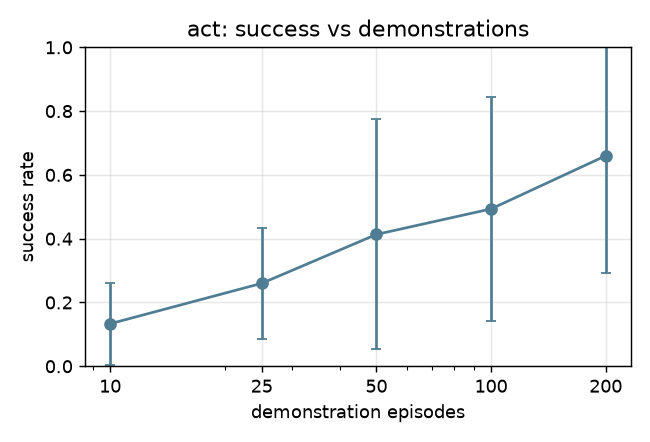
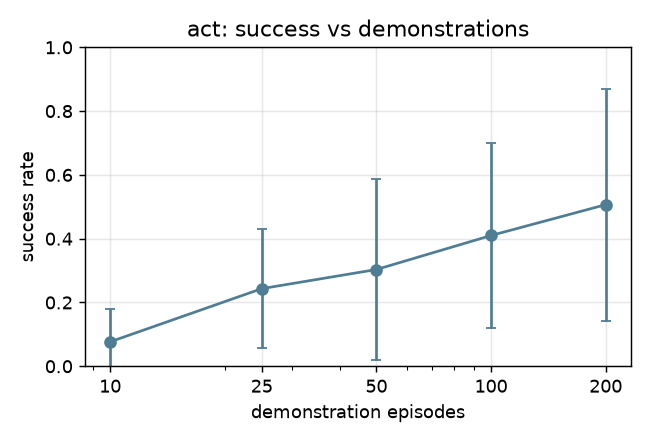
ACT scaling curve at six training seeds (0.51 +- 0.36 at 200, two groups); eval-pipeline recheck numbers

diff --git a/README.md b/README.md
@@ -13,8 +13,8 @@ none is typed by hand. Headline: from the same 200 scripted demonstrations
 an ACT-style chunked policy lifts the cube 0.77 of the time against 0.05
 for single-step cloning (expert 0.93), and in the scaling curve more
 demonstrations do not help single-step cloning while ACT is still climbing
-at 200. One training seed per table except the scaling curve (three), and
-the scaling curve shows that the training seed matters a lot.
+at 200. One training seed per table except the scaling curve (three, six
+for ACT), and the scaling curve shows that the training seed matters a lot.
 
 **Walkthrough:** https://aungkaung1928.github.io/projects/so-arm100.html — the bench and the three policy projects built on it, explained end to end.
 
@@ -83,39 +83,41 @@ on the expert's own states, and the held-out table below is what counts.
 ## The experiments
 
 **Scaling curve** (`scaling.py`): for sizes 10, 25, 50, 100, 200 episodes
-and 3 seeds each, train on the first `size` episodes for 20 epochs and
+and 3 training seeds each (6 for `act`), train on the first `size` episodes for 20 epochs and
 evaluate 50 episodes on one evaluation seed. That is lighter than the bench
 protocol (100 × 5) and the 30 epochs of the training table above, to keep 15
 runs per model affordable on CPU. Same first episodes for every training
 seed, so seeds differ only in initialisation and shuffling; a cell is mean ±
-sd over the 3 training seeds, so its spread is training variance, not
+sd over the training seeds, so its spread is training variance, not
 evaluation noise (at 50 episodes one success is 0.02).
 
 `nice -n 10 python scaling.py --root data/lift_red --repo-id local/so_arm100_lift_red --task lift:red --model image --sizes 10 25 50 100 200 --seeds 3` → `runs/scaling_image.json`, `out/scaling_image.png`
 
 | episodes | `state` | `image` | `act` |
 |---|---|---|---|
-| 10 | 0.01 ± 0.01 | 0.01 ± 0.01 | 0.13 ± 0.13 |
-| 25 | 0.01 ± 0.01 | 0.03 ± 0.01 | 0.26 ± 0.17 |
-| 50 | 0.00 ± 0.00 | 0.02 ± 0.03 | 0.41 ± 0.36 |
-| 100 | 0.02 ± 0.00 | 0.04 ± 0.02 | 0.49 ± 0.35 |
-| 200 | 0.03 ± 0.01 | 0.05 ± 0.06 | 0.66 ± 0.37 |
+| 10 | 0.01 ± 0.01 | 0.01 ± 0.01 | 0.08 ± 0.10 |
+| 25 | 0.01 ± 0.01 | 0.03 ± 0.01 | 0.24 ± 0.19 |
+| 50 | 0.00 ± 0.00 | 0.02 ± 0.03 | 0.30 ± 0.28 |
+| 100 | 0.02 ± 0.00 | 0.04 ± 0.02 | 0.41 ± 0.29 |
+| 200 | 0.03 ± 0.01 | 0.05 ± 0.06 | 0.51 ± 0.36 |
 
 ![success against demonstrations for the three models](out/scaling_all.png)
 
 Measured 2026-09-25 (`state`) and 2026-09-30 (`image`, `act`), 3 training
-seeds × 50 episodes per cell; the faint points in the figure are the single
-seeds. 90 and 92 min wall for the 15 image and 15 ACT runs, most of it
+seeds (`state`, `image`) and 6 (`act`) × 50 episodes per cell; the faint
+points in the figure are the single seeds. 90 min wall for the 15 image
+runs and 196 min for the 30 ACT runs (seeds 3–5 added the same day with
+`--seeds 6`, which resumes and skips the finished rows), most of it
 rendering during evaluation (`out/scaling_all.png` from `scripts/plot_scaling.py`).
-Per seed (0 / 1 / 2):
+Per seed:
 
-| episodes | `image` | `act` |
+| episodes | `image` (0 / 1 / 2) | `act` (0 / 1 / 2 / 3 / 4 / 5) |
 |---|---|---|
-| 10 | 0.00 / 0.00 / 0.02 | 0.28 / 0.08 / 0.04 |
-| 25 | 0.02 / 0.04 / 0.02 | 0.34 / 0.06 / 0.38 |
-| 50 | 0.00 / 0.00 / 0.06 | 0.76 / 0.04 / 0.44 |
-| 100 | 0.04 / 0.06 / 0.02 | 0.82 / 0.12 / 0.54 |
-| 200 | 0.02 / 0.00 / 0.12 | 0.92 / 0.24 / 0.82 |
+| 10 | 0.00 / 0.00 / 0.02 | 0.28 / 0.08 / 0.04 / 0.00 / 0.04 / 0.02 |
+| 25 | 0.02 / 0.04 / 0.02 | 0.34 / 0.06 / 0.38 / 0.08 / 0.50 / 0.10 |
+| 50 | 0.00 / 0.00 / 0.06 | 0.76 / 0.04 / 0.44 / 0.12 / 0.40 / 0.06 |
+| 100 | 0.04 / 0.06 / 0.02 | 0.82 / 0.12 / 0.54 / 0.22 / 0.62 / 0.14 |
+| 200 | 0.02 / 0.00 / 0.12 | 0.92 / 0.24 / 0.82 / 0.12 / 0.76 / 0.18 |
 
 What the curve says:
 
@@ -126,26 +128,35 @@ What the curve says:
   compounding error measured below is not a data-quantity problem at this
   scale. The 200-episode cell (0.05 ± 0.06) agrees with the 100 × 5
   evaluation of the 30-epoch model (0.05 ± 0.02).
-- **ACT climbs and has not levelled off at 200.** The mean rises 0.13,
-  0.26, 0.41, 0.49, 0.66, and seeds 0 and 2 improve at every step.
-  Where it stops is past the largest size measured.
+- **ACT's mean climbs and has not levelled off at 200.** The mean rises
+  0.08, 0.24, 0.30, 0.41, 0.51. Seeds 0 and 2 improve at every step; seed
+  3 drops from 0.22 to 0.12 between 100 and 200. Where the mean stops is
+  past the largest size measured.
 - **The training seed is the biggest term, bigger than the dataset size.**
-  At 200 episodes ACT's seeds score 0.92, 0.82 and 0.24. At 50 episodes one
-  success is 0.02 and the binomial standard error of a 0.5 rate is 0.07, so
-  a spread of 0.37 is training variance, not evaluation noise. Seed 1 is
-  worst at every size because a seed fixes the initialisation and the
-  shuffling, and the sizes share them. So the three curves are three
-  initialisations, not fifteen independent draws. The ranking survives it:
-  at 100 and 200 episodes ACT's worst seed is above the image policy's best
-  (0.12 vs 0.06, 0.24 vs 0.12). At 50 it is not (0.04 vs 0.06).
-- **Validation L1 does not pick the good seed.** At 50 episodes the seeds'
-  L1 is 0.142, 0.190 and 0.235 and their success 0.76, 0.04 and 0.44. The
-  middle loss has the worst policy. That is one more reason the final
-  epoch is reported rather than the best one on validation.
+  At 200 episodes ACT's six seeds split into two groups: 0.92, 0.82, 0.76
+  and 0.24, 0.18, 0.12, with nothing between 0.24 and 0.76. The mean of
+  0.51 describes neither group. At 50 episodes one success is 0.02 and the
+  binomial standard error of a 0.5 rate is 0.07, so an sd of 0.28 there is
+  training variance, not evaluation noise. A seed fixes the
+  initialisation and the shuffling, and the sizes share them, so the six
+  curves are six initialisations, not thirty independent draws. Seeds 1,
+  3 and 5 are in the low group at 50, 100 and 200 episodes. The ranking
+  against single-step cloning only partly survives: at 100 episodes ACT's
+  worst seed is above the image policy's best (0.12 vs 0.06); at 200 they
+  tie (0.12 vs 0.12) and at 50 it is below (0.04 vs 0.06). The mean gap
+  is large at every size from 25 up.
+- **Validation L1 does not reliably pick the good seed.** At 50 episodes
+  seeds 0, 1 and 2 have L1 0.142, 0.190 and 0.235 and success 0.76, 0.04
+  and 0.44: the middle loss has the worst policy. At 200 episodes the six
+  seeds' L1 (0.126 to 0.168) does order the two groups correctly, every
+  high-group seed below every low-group one. So the loss carries some
+  signal at the largest size and none at 50; six seeds are too few to say
+  where that changes. The final epoch is still reported, not the best one
+  on validation.
 - **What it means for the other tables.** The ACT results below (0.77 on
   nominal, the held-out table) are one training seed at 30 epochs, and
-  every other policy here is one training seed too. At 20 epochs this curve puts three seeds of
-  the same recipe at 0.24 to 0.92, so the ± over
+  every other policy here is one training seed too. At 20 epochs this curve puts six seeds of
+  the same recipe at 0.12 to 0.92, so the ± over
   evaluation seeds understates the real uncertainty by a wide margin. The
   BC-versus-ACT gap is large enough to survive that; the smaller
   differences in the held-out table (laggy −0.12, weak −0.06) may not.
@@ -193,11 +204,14 @@ Mean ± std over the 5 seeds, 100 episodes each. What the table says:
 - **Chunking is the whole difference.** Same demonstrations, same encoder
   family, same loss: the single-step `ImagePolicy` lifts 0.05 on nominal,
   `ACTLite` 0.77. Replaying a recorded episode through the eval env
-  reproduces the state to 7e-7 and the policy's output on the expert's own
-  trajectory is within 0.005-0.06 rad of the demonstration, so the pipeline
-  is not the problem. Closed loop, the single-step policy's error against
-  the expert grows from 0.4 to 1-4 rad within 50-150 steps: compounding
-  error, the textbook failure of behaviour cloning, measured.
+  reproduces the state to 7e-7 and the rendered frame to 2e-4, and on the
+  expert's own trajectory the policy's worst-joint error against the
+  demonstration is 0.033 rad median, 0.18 at the 95th percentile (77 steps
+  of episode 0), so the pipeline is not the problem. Closed loop, the
+  single-step policy's worst-joint error against the expert grows from
+  0.4-0.5 rad in the first 10 steps to 1.1-4.6 rad by step 60-150
+  (3 evaluation seeds, one of which still lifts): compounding error, the
+  textbook failure of behaviour cloning, measured. Rechecked 2026-09-30.
 - **ACT transfers, with two real losses.** Heavy and noisy stay within noise
   of nominal. Laggy costs 0.12 and weak 0.06, where the expert loses at most
   0.01. The small cube costs ACT 0.39 against the expert's 0.20; a smaller
